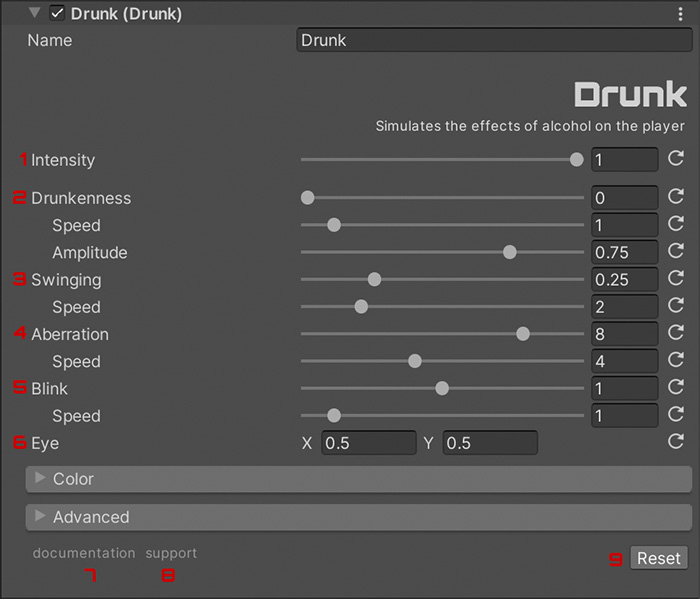
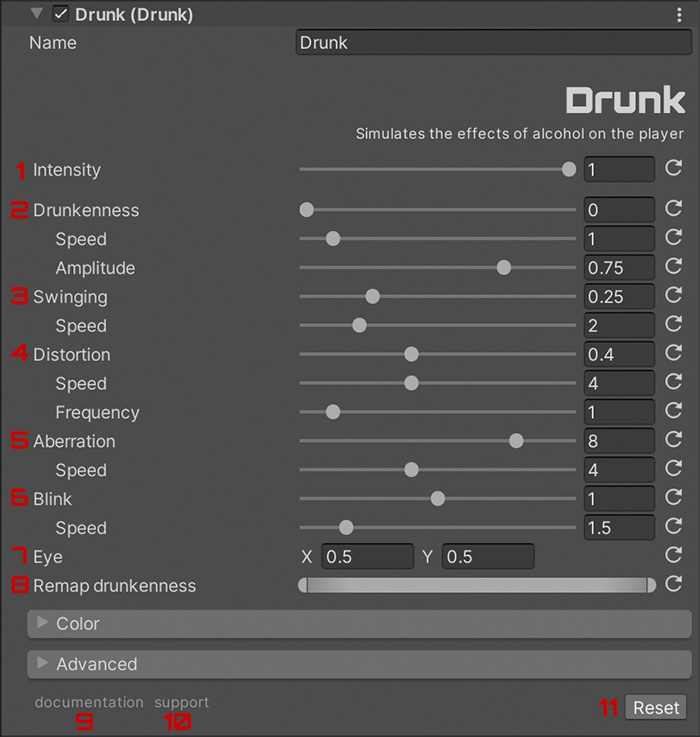
Drunk docs update.

Changed region(s): [[0.0, 0.0902, 0.99, 0.9917], [0.42, 0.0, 0.99, 0.0902], [0.03, 0.0, 0.27, 0.0902]]

diff --git a/content/store/spiceup/index.md b/content/store/spiceup/index.md
@@ -155,7 +155,7 @@ Another effect you may have seen in other games, is how the player blinks, or lo
 Very high values of '_Speed_' can create a **stroboscopic** effect that **may affect some users**.
 {{< /notice >}}
 
-Do values close to 1 of '**Damage**' (_2_) cause the screen not to display? Adjust the range with '**Remap damage**' (_12_). By lowering the upper range somewhat, you will make the 1 damage value actually lower.
+Do values close to 1 of '**Damage**' (_2_) make the effect too intense? Adjust the range with '**Remap damage**' (_12_). By lowering the upper range somewhat, you will make very high values lower.
 
 Finally, if you click on '**documentation**' (_14_) you will go to the online documentation. If you need support, you can send me an email to '_frokongames@gmail.com_' or you can click on '**support**' (_15_). If you need to reset all the effect values, click on '**Reset**' (_16_).
 
@@ -168,17 +168,27 @@ Finally, if you click on '**documentation**' (_14_) you will go to the online do
 
 With '**Drunk**' you can let players know that they are drinking too much.
 
-{{< notice warning >}}
-High values of this effect may cause dizziness. Use with caution.
-{{< /notice >}}
-
 Once installed, when you select your '_Universal Renderer Data_', you will see something like this:
 
 {{< imagecenter src="/store/spiceup/drunk_0.jpg" >}}
 
 With '**Intensity**' (_1_) you can control the intensity of the effect. If it is 0, the effect will not be active.
 
-Finally, if you click on '**documentation**' (_14_) you will go to the online documentation. If you need support, you can send me an email to '_frokongames@gmail.com_' or you can click on '**support**' (_15_). If you need to reset all the effect values, click on '**Reset**' (_16_).
+With '**Drunkenness**' (_2_) you control the overall intensity of the effect. The higher the value, the more intense the result. You can also adjust the speed of the oscillations and their amplitude.
+
+{{< notice warning >}}
+High values of this effect may cause dizziness. Use with caution.
+{{< /notice >}}
+
+'**Swinging**' (_3_) causes the camera to swing. In addition to the intensity, you can control its speed.
+
+With '**Distortion**' you can modify how the image is distorted, you can also control the speed and frequency of the distortion. You can also add to the image distortion, a displacement of the color channels (RGB) with '**Aberration**' (_5_).
+
+'**Blink**' (_6_) adds to the effect a blinking of the eyes. You can also control with '**Eye**' (_7_) the point of the vision, being (0.5, 0.5) the center of the screen.
+
+Do values close to 1 of '**Drunkenness**' (_2_) make the effect too intense? Adjust the range with '**Remap damage**' (_8_). By lowering the upper range somewhat, you will make very high values lower.
+
+Finally, if you click on '**documentation**' (_9_) you will go to the online documentation. If you need support, you can send me an email to '_frokongames@gmail.com_' or you can click on '**support**' (_10_). If you need to reset all the effect values, click on '**Reset**' (_11_).
 
 # {#stoned}
 {{< rawhtml >}}<br><br>{{< /rawhtml >}}
